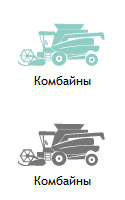
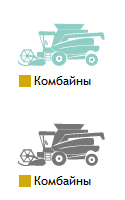
menu refactoring

Changed region(s): [[0.144, 0.36, 0.264, 0.45], [0.144, 0.87, 0.264, 0.96]]

diff --git a/css/main.css b/css/main.css
@@ -191,6 +191,30 @@
 .main_menu_wrapper .main_menu_second_level li.menu_color_group_26 a:after {
   background: #ffffff;
 }
+.menu_color_group_27 {
+  background-color: #ffffff;
+  border-color: #ffffff;
+  color: #ffffff;
+}
+.main_menu_wrapper .main_menu_second_level li.menu_color_group_27 a:after {
+  background: #ffffff;
+}
+.menu_color_group_28 {
+  background-color: #b3e2f8;
+  border-color: #b3e2f8;
+  color: #b3e2f8;
+}
+.main_menu_wrapper .main_menu_second_level li.menu_color_group_28 a:after {
+  background: #b3e2f8;
+}
+.menu_color_group_29 {
+  background-color: #ffffaa;
+  border-color: #ffffaa;
+  color: #ffffaa;
+}
+.main_menu_wrapper .main_menu_second_level li.menu_color_group_29 a:after {
+  background: #ffffaa;
+}
 body {
   font-size: 13px;
   font-family: 'Trebuchet MS';
@@ -342,13 +366,13 @@ header .menu.main .menuMainTop li a span {
   word-wrap: break-word;
 }
 header .menu.main .menuMainTop li:hover {
-  background: #EDFFEC;
+  background: #e1eded;
 }
 header .menu.main .menuMainTop li.active {
-  background: #EDFFEC;
+  background: #e1eded;
   border-radius: 5px 5px 0 0;
   box-shadow: inset 1px 1px 6px rgba(0,0,0,0.5);
-  color: #f67f19;
+  color: #f7f7f7;
 }
 header .menu.second {
   float: left;
@@ -1517,9 +1541,7 @@ footer .f-right .f-nav:after {
 }
 .main_menu_wrapper .main_menu_first_level {
   height: 20px;
-  padding-left: 209px;
   position: relative;
-  background: #EDFFEC;
 }
 .main_menu_wrapper .main_menu_first_level li {
   float: left;
@@ -1535,14 +1557,14 @@ footer .f-right .f-nav:after {
   background: transparent;
 }
 .main_menu_wrapper .main_menu_first_level li.active {
-  background: #EDFFEC;
+  background: #e1eded;
   box-shadow: inset 1px 1px 6px rgba(0,0,0,0.5);
 }
 .main_menu_wrapper .main_menu_first_level li.active a {
   color: #f67f19;
 }
 .main_menu_wrapper .main_menu_first_level li:hover {
-  background: #EDFFEC;
+  background: #e1eded;
 }
 .main_menu_wrapper .main_menu_first_level:after {
   content: "";
@@ -1556,7 +1578,12 @@ footer .f-right .f-nav:after {
 }
 .main_menu_wrapper .main_menu_second_level {
   position: relative;
-  background: #EDFFEC;
+  background: -moz-linear-gradient(top,#ffffff,#ededed);
+  background: -webkit-gradient(linear,left top,left bottom,color-stop(0%,#ffffff),color-stop(100%,#ededed));
+  background: -webkit-linear-gradient(top,#ffffff,#ededed);
+  background: -o-linear-gradient(top,#ffffff,#ededed);
+  background: -ms-linear-gradient(top,#ffffff,#ededed);
+  background: linear-gradient(top,#ffffff,#ededed);
 }
 .main_menu_wrapper .main_menu_second_level li {
   float: left;
@@ -1575,7 +1602,7 @@ footer .f-right .f-nav:after {
   position: absolute;
   z-index: 10;
   display: block;
-  bottom: -7px;
+  bottom: 0px;
 }
 .main_menu_wrapper .main_menu_second_level li span {
   position: absolute;
@@ -1588,16 +1615,22 @@ footer .f-right .f-nav:after {
   z-index: 150;
   top: 0px;
   opacity: 1;
-  line-height: 11px;
-  font-size: 11px;
+  line-height: 14px;
+  font-size: 12px;
   text-align: center;
 }
 .main_menu_wrapper .main_menu_second_level .active {
   box-shadow: inset 1px 1px 6px rgba(0,0,0,0.5);
   border-radius: 5px;
+  background: #e1eded;
+}
+.main_menu_wrapper .main_menu_second_level .active a {
+  border: 2px solid;
+  border-radius: 5px;
+  height: 96px;
 }
 .main_menu_wrapper .main_menu_second_level li:hover {
-  background: #bde5ba;
+  background: #e1eded;
 }
 .main_menu_wrapper .main_menu_second_level a {
   display: block;
@@ -1606,16 +1639,6 @@ footer .f-right .f-nav:after {
   height: 100%;
   background: transparent;
   background-color: transparent;
-}
-.main_menu_wrapper .main_menu_second_level a:after {
-  content: '';
-  display: block;
-  width: 100%;
-  height: 12px;
-  background-color: transparent;
-  position: absolute;
-  top: 0px;
-  left: 0px;
 }
 .main_menu_wrapper .main_menu_second_level:after {
   content: '';
@@ -1691,6 +1714,8 @@ footer .f-right .f-nav:after {
   border-radius: 5px;
   background: transparent;
   background-color: transparent;
+  height: 17px;
+  display: block;
 }
 .main_menu_wrapper .main_menu_third_level >ul#third_level_menu li:hover {
   background: #00a68d;

diff --git a/css/input.less b/css/input.less
@@ -182,13 +182,14 @@ header
                 }
             }
             li:hover{
-                background:@sh_tech_group_color;
+                background:#e1eded;
             }
             li.active{
-                background:@sh_tech_group_color;
+                /*background:@sh_tech_group_color;*/
+                background:#e1eded;
                 border-radius: 5px 5px 0 0;
                 box-shadow: inset 1px 1px 6px rgba(0,0,0,0.5);
-                color:#f67f19;
+                color:#f7f7f7;
             }
         }
     }
@@ -1490,9 +1491,8 @@ footer
     }
     .main_menu_first_level{
         height:20px;
-        padding-left: 209px;
         position: relative;
-        background: @sh_tech_group_color;
+        /*background: @sh_tech_group_color;*/
         li{
             float: left;
             height:20px;
@@ -1507,7 +1507,8 @@ footer
             }
         }
         li.active{
-            background:@sh_tech_group_color;
+            /*background:@sh_tech_group_color;*/
+            background:#e1eded;
             box-shadow: inset 1px 1px 6px rgba(0,0,0,0.5);
 
             a{
@@ -1515,7 +1516,7 @@ footer
             }
         } 
         li:hover{
-            background:@sh_tech_group_color;
+            background:#e1eded;
         }
     }
     .main_menu_first_level:after{
@@ -1530,13 +1531,13 @@ footer
     }
     .main_menu_second_level{
         position: relative;
-        /*background: -moz-linear-gradient(top, #ffffff, #ededed);
+        background: -moz-linear-gradient(top, #ffffff, #ededed);
         background: -webkit-gradient(linear, left top, left bottom, color-stop(0%, #ffffff), color-stop(100%,#ededed));
         background: -webkit-linear-gradient(top, #ffffff, #ededed);
         background: -o-linear-gradient(top, #ffffff, #ededed);
         background: -ms-linear-gradient(top, #ffffff, #ededed);
-        background: linear-gradient(top, #ffffff, #ededed);*/
-        background: @sh_tech_group_color;
+        background: linear-gradient(top, #ffffff, #ededed);
+        /*background: @sh_tech_group_color;*/
         li{
             float: left;
             margin: 0px;
@@ -1555,7 +1556,7 @@ footer
                 position: absolute;
                 z-index: 10;
                 display: block;
-                bottom:-7px;
+                bottom:0px;
             }
             img:hover{
                 /*top: 7px;*/
@@ -1571,18 +1572,23 @@ footer
                 z-index: 150;
                 top: 0px;
                 opacity: 1;
-                line-height: 11px;
-                font-size: 11px;
+                line-height: 14px;
+                font-size: 12px;
                 text-align: center;
             }
         }
         .active{
             box-shadow: inset 1px 1px 6px rgba(0,0,0,0.5);
             border-radius:5px;
-
+            background: #e1eded;
+            a{
+                border: 2px solid;
+                border-radius:5px;
+                height: 96px;
+            }
         }
         li:hover{
-            background: @sh_tech_dark_group_color;
+            background: #e1eded;
         }
         a{
             display: block;
@@ -1593,14 +1599,14 @@ footer
             background-color:transparent;
         }
         a:after{
-            content: '';
+            /*content: '';
             display: block;
             width:100%;
             height:12px;
             background-color:transparent;
             position: absolute;
             top: 0px;
-            left:0px;
+            left:0px;*/
         }
     }
     .main_menu_second_level:after{
@@ -1674,6 +1680,8 @@ footer
                     border-radius: 5px;
                     background:transparent;
                     background-color:transparent;
+                    height: 17px; 
+                    display: block;
                 }
 
             }

diff --git a/css/menuGroups.less b/css/menuGroups.less
@@ -398,3 +398,35 @@
         }
     }
 }    
+.menu_color_group_28{
+    background-color:#b3e2f8;
+    border-color:#b3e2f8;
+    color:#b3e2f8;
+}
+@menu_color_group_28:#b3e2f8;
+
+.main_menu_wrapper{
+    .main_menu_second_level{
+        li.menu_color_group_28{
+            a:after{
+                background:#b3e2f8;
+            }    
+        }
+    }
+}    
+.menu_color_group_29{
+    background-color:#ffffaa;
+    border-color:#ffffaa;
+    color:#ffffaa;
+}
+@menu_color_group_29:#ffffaa;
+
+.main_menu_wrapper{
+    .main_menu_second_level{
+        li.menu_color_group_29{
+            a:after{
+                background:#ffffaa;
+            }    
+        }
+    }
+}    

diff --git a/css/ie.css b/css/ie.css
@@ -116,7 +116,10 @@ header #top_banner
     display: none;
     behavior: url(PIE.htc);
 }
-.main_menu_wrapper .main_menu_third_level ul.menu_products_list li
+.main_menu_wrapper .main_menu_third_level ul.menu_products_list li {
+    background-color: #FFFFFF;
+}
+.wrapper #content .product_wrapper .product_content > div div.review_video 
 {
     background-color: #FFFFFF;
 }
@@ -141,3 +144,9 @@ header #top_banner
     margin-top: -5px\0/;
 }
 
+.main_menu_third_level #third_level_menu li a{
+    height: 17px; display: block;
+}
+div.main_menu_wrapper .main_menu_third_level >ul#third_level_menu >li a.active{
+    height: 17px; display: block;
+}

diff --git a/protected/extensions/mainMenuWidget/views/index.php b/protected/extensions/mainMenuWidget/views/index.php
@@ -31,7 +31,7 @@
                     echo CHtml::openTag(
                             'a',
                             array(
-                                'class'=>$colorCssClass,
+                                'class'=>$colorCssClass.' ',
                                 'href'=>$secondLevelItem->path,
                             )
                     );
@@ -47,7 +47,7 @@
                         $nextItem = $this->secondLevelItems[($itemNum+$itemsInGroup)];
                     }
                     if($itemsInGroup>1 && $secondLevelItem->group->id!==$this->secondLevelItems[($itemNum-1)]->group->id){
-                        echo('<span class="menu_group_name" style="width:'.($itemsInGroup*125).'px;">'.$secondLevelItem->group->name.'</span>');
+                        echo('<span class="menu_group_name '.$colorCssClass.'" style="width:'.($itemsInGroup*125).'px;">'.$secondLevelItem->group->name.'</span>');
                         
                     }
                 echo CHtml::closeTag('li');

diff --git a/protected/views/layouts/main.php b/protected/views/layouts/main.php
@@ -41,7 +41,7 @@ $less->compileFile($_SERVER['DOCUMENT_ROOT'].'/css/input.less', $_SERVER['DOCUME
                 <img src="/images/logo.png" title="ЛБР-Агромаркет" alt="Логотип ЛБР-Агромаркет"/>
             </a>
             <div class="region">
-                 <p style="font-size: 13px; font-weight: bold; margin-top: 0px;"> Ваш регион: <span class="contact-top-span">
+                 <p style="font-size: 13px; font-weight: bold; margin: 0px;"> Ваш регион: <span class="contact-top-span">
                  <a href="/contacts/getregionstable/" id="show_regions_table_button">Не выбран</a></span></p>
                  <script>
                     $(function(){
